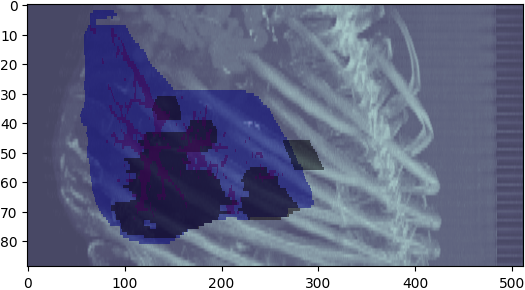
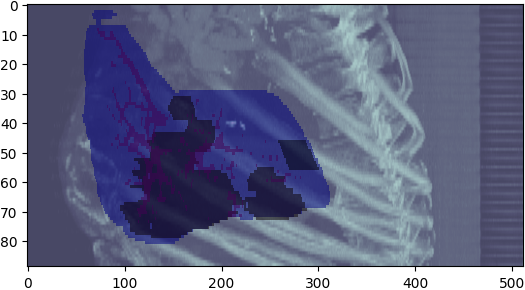
primer ejercicio acabado

diff --git a/exercice_01_ENTREGA.py b/exercice_01_ENTREGA.py
@@ -27,35 +27,6 @@ def get_dcm_paths(path):
     path_names = sorted(os.listdir(path), key=_custom_sort)
     return list(map(lambda filename: os.path.join(path, filename), path_names))
 
-def get_segmentation_masks():
-    ds = pydicom.dcmread('HCC_005/01-23-1999-NA-ABDPELVIS-36548/300.000000-Segmentation-06660/1-1.dcm')
-    segmentation = []
-
-    for i in ds.pixel_array:
-        segmentation.append(i)
-    segmentation = np.array(segmentation)
-
-    mask1 = segmentation[:89]
-    mask2 = segmentation[89:89 * 2]
-    mask3 = segmentation[89 * 2 + 1:89 * 3 + 1]
-    mask4 = segmentation[89 * 3:]
-    return mask1, mask2, mask3, mask4
-
-def get_segmentation_masks_correctly():
-    ds = pydicom.dcmread('HCC_005/01-23-1999-NA-ABDPELVIS-36548/300.000000-Segmentation-06660/1-1.dcm')
-    segmentation = []
-
-    for i in ds.pixel_array:
-        segmentation.append(i)
-    segmentation = np.array(segmentation)
-
-    mask1 = segmentation[:89]
-    mask2 = segmentation[89:89 * 2]
-    mask3 = segmentation[89 * 2 + 1:89 * 3 + 1]
-    mask4 = segmentation[89 * 3:]
-    return mask1, mask2, mask3, mask4
-
-
 def get_segmentation_masks_correctly_place():
     ds = pydicom.dcmread('HCC_005/01-23-1999-NA-ABDPELVIS-36548/300.000000-Segmentation-06660/1-1.dcm')
     segmentation = []
@@ -134,7 +105,7 @@ def execute_code(path, type, only_animation=False):
     slides3d = np.array([s.pixel_array for s in slices])
 
     # get the mask for each class
-    mask1, mask2, mask3, mask4 = get_segmentation_masks()
+    mask1, mask2, mask3, mask4 = get_segmentation_masks_correctly_place()#get_segmentation_masks()
 
     img_dcm = slides3d
     img_min = np.amin(img_dcm)
@@ -148,7 +119,7 @@ def execute_code(path, type, only_animation=False):
 
     if not(only_animation):
         #   Create projections
-        n = 16
+        n = 24
         projections = []
         for idx, alpha in enumerate(np.linspace(0, 360 * (n - 1) / n, num=n)):
             rotated_img = rotate_on_axial_plane(img_dcm, alpha)
@@ -204,51 +175,10 @@ def execute_code(path, type, only_animation=False):
 
     animation_data[0].save("results/"+path_type[type]+"/Animation.gif", save_all=True, append_images=animation_data[1:], optimize=False, duration=250, loop=1)
 
-def posible(ds):
-    segmentaciones = ds.SegmentSequence
-
-    for s in segmentaciones:
-        # vamos a tener 4
-        label = s.SegmentLabel
-        labelNumber = s.SegmentNumber
-
 if __name__ == '__main__':
     # Select level
-    # SAGITTAL = 0
-    # CORONAL  = 1
-    # execute_code('HCC_005/01-23-1999-NA-ABDPELVIS-36548/103.000000-LIVER 3 PHASE AP-85837', CORONAL, False)
-
-    ds = pydicom.dcmread('HCC_005/01-23-1999-NA-ABDPELVIS-36548/300.000000-Segmentation-06660/1-1.dcm')
-    segmentation = []
-
-    for i in ds['PerFrameFunctionalGroupsSequence']:
-        image_position = i.PlanePositionSequence[0].ImagePositionPatient # última componente es la que cambia
-        print(image_position)
-        #print(image_position)
-        #print(i)
-
-        segment_seq = i.SegmentIdentificationSequence
-
-        if segment_seq is not None:
-            segment_number = segment_seq[0].ReferencedSegmentNumber # esto te dice en que segmentación estas
-            print("Segment Number:", segment_number)
-            #print("Segment Label:", algo)
-            #plt.imshow(i.pixel_array)
-            #plt.show()
-
-    # ds['PerFrameFunctionalGroupsSequence'][100]['SegmentIdentificationSequence']
-    # ds['PerFrameFunctionalGroupsSequence']
-
-    for i in ds.pixel_array:
-        segmentation.append(i)
-    segmentation = np.array(segmentation)
-
-    mask1 = segmentation[:89]
-    mask2 = segmentation[89:89 * 2]
-    mask3 = segmentation[89 * 2 + 1:89 * 3 + 1]
-    mask4 = segmentation[89 * 3:]
-
-    #return mask1, mask2, mask3, mask4
-
+    SAGITTAL = 0
+    CORONAL  = 1
+    execute_code('HCC_005/01-23-1999-NA-ABDPELVIS-36548/103.000000-LIVER 3 PHASE AP-85837', CORONAL, False)
 
 
